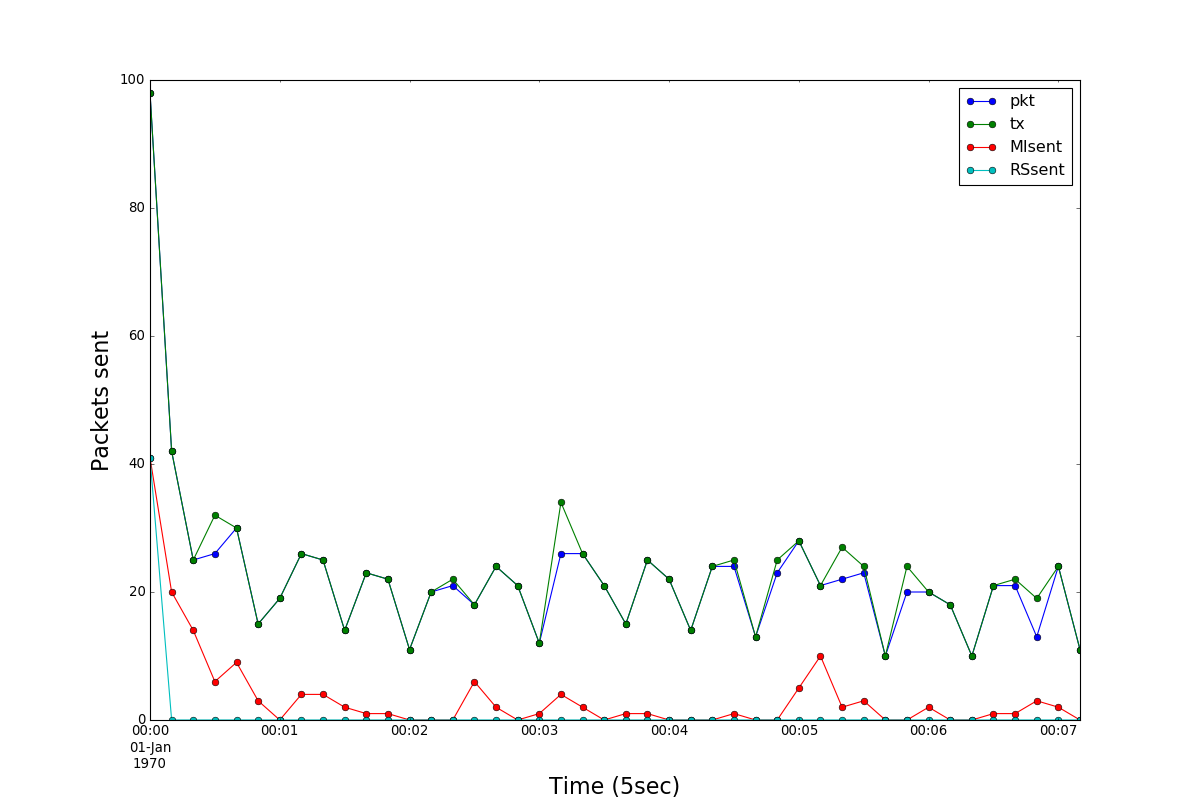
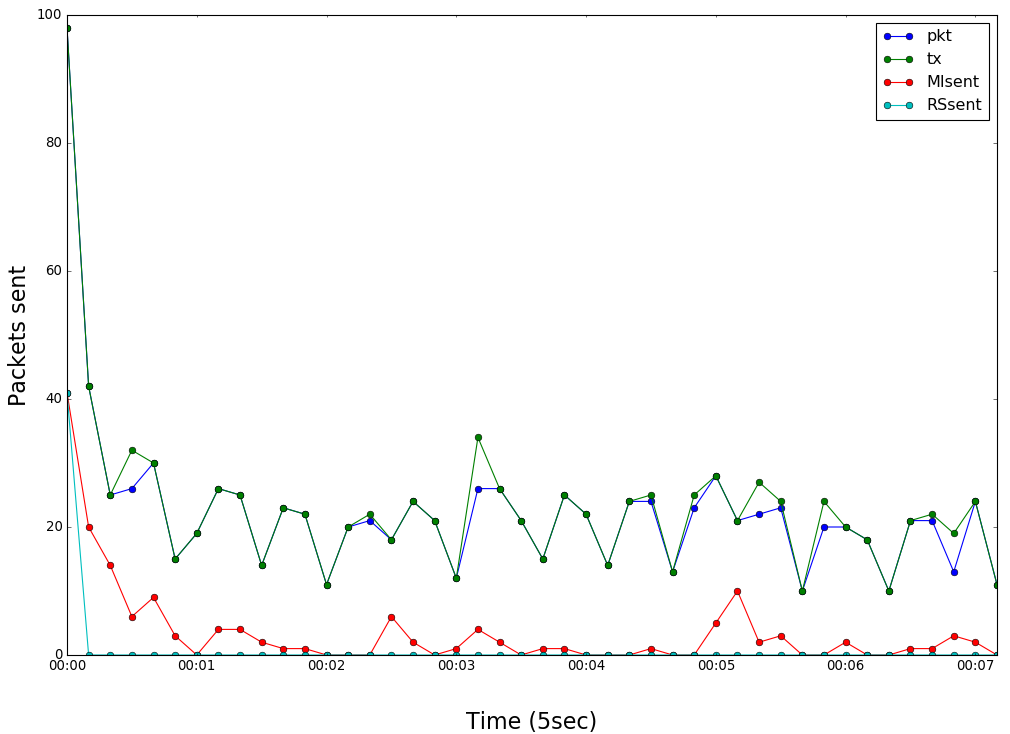
add figs

diff --git a/paper/evaluation.tex b/paper/evaluation.tex
@@ -66,9 +66,17 @@ In the multi-hop case,
 \begin{figure}[t]
 \centering
 \includegraphics[width=\linewidth]{figs/rpl_multi_hop.png}
-\caption{Sum of packet types sent over time over all nodes in a RPL topology of a multi-hop topology.}
+\caption{Sum of packet types sent over time over all nodes in a multi-hop RPL topology}
 \label{fig:rpl_multi_hop}
 \end{figure}
+
+\begin{figure}[t]
+\centering
+\includegraphics[width=\linewidth]{figs/3hop_multi_hop.png}
+\caption{Sum of packet types sent over time over all nodes in a multi-hop 3hop topology}
+\label{fig:3hop_multi_hop}
+\end{figure}
+
 
 \if 0
 Want to evaluate the code dissemination part
